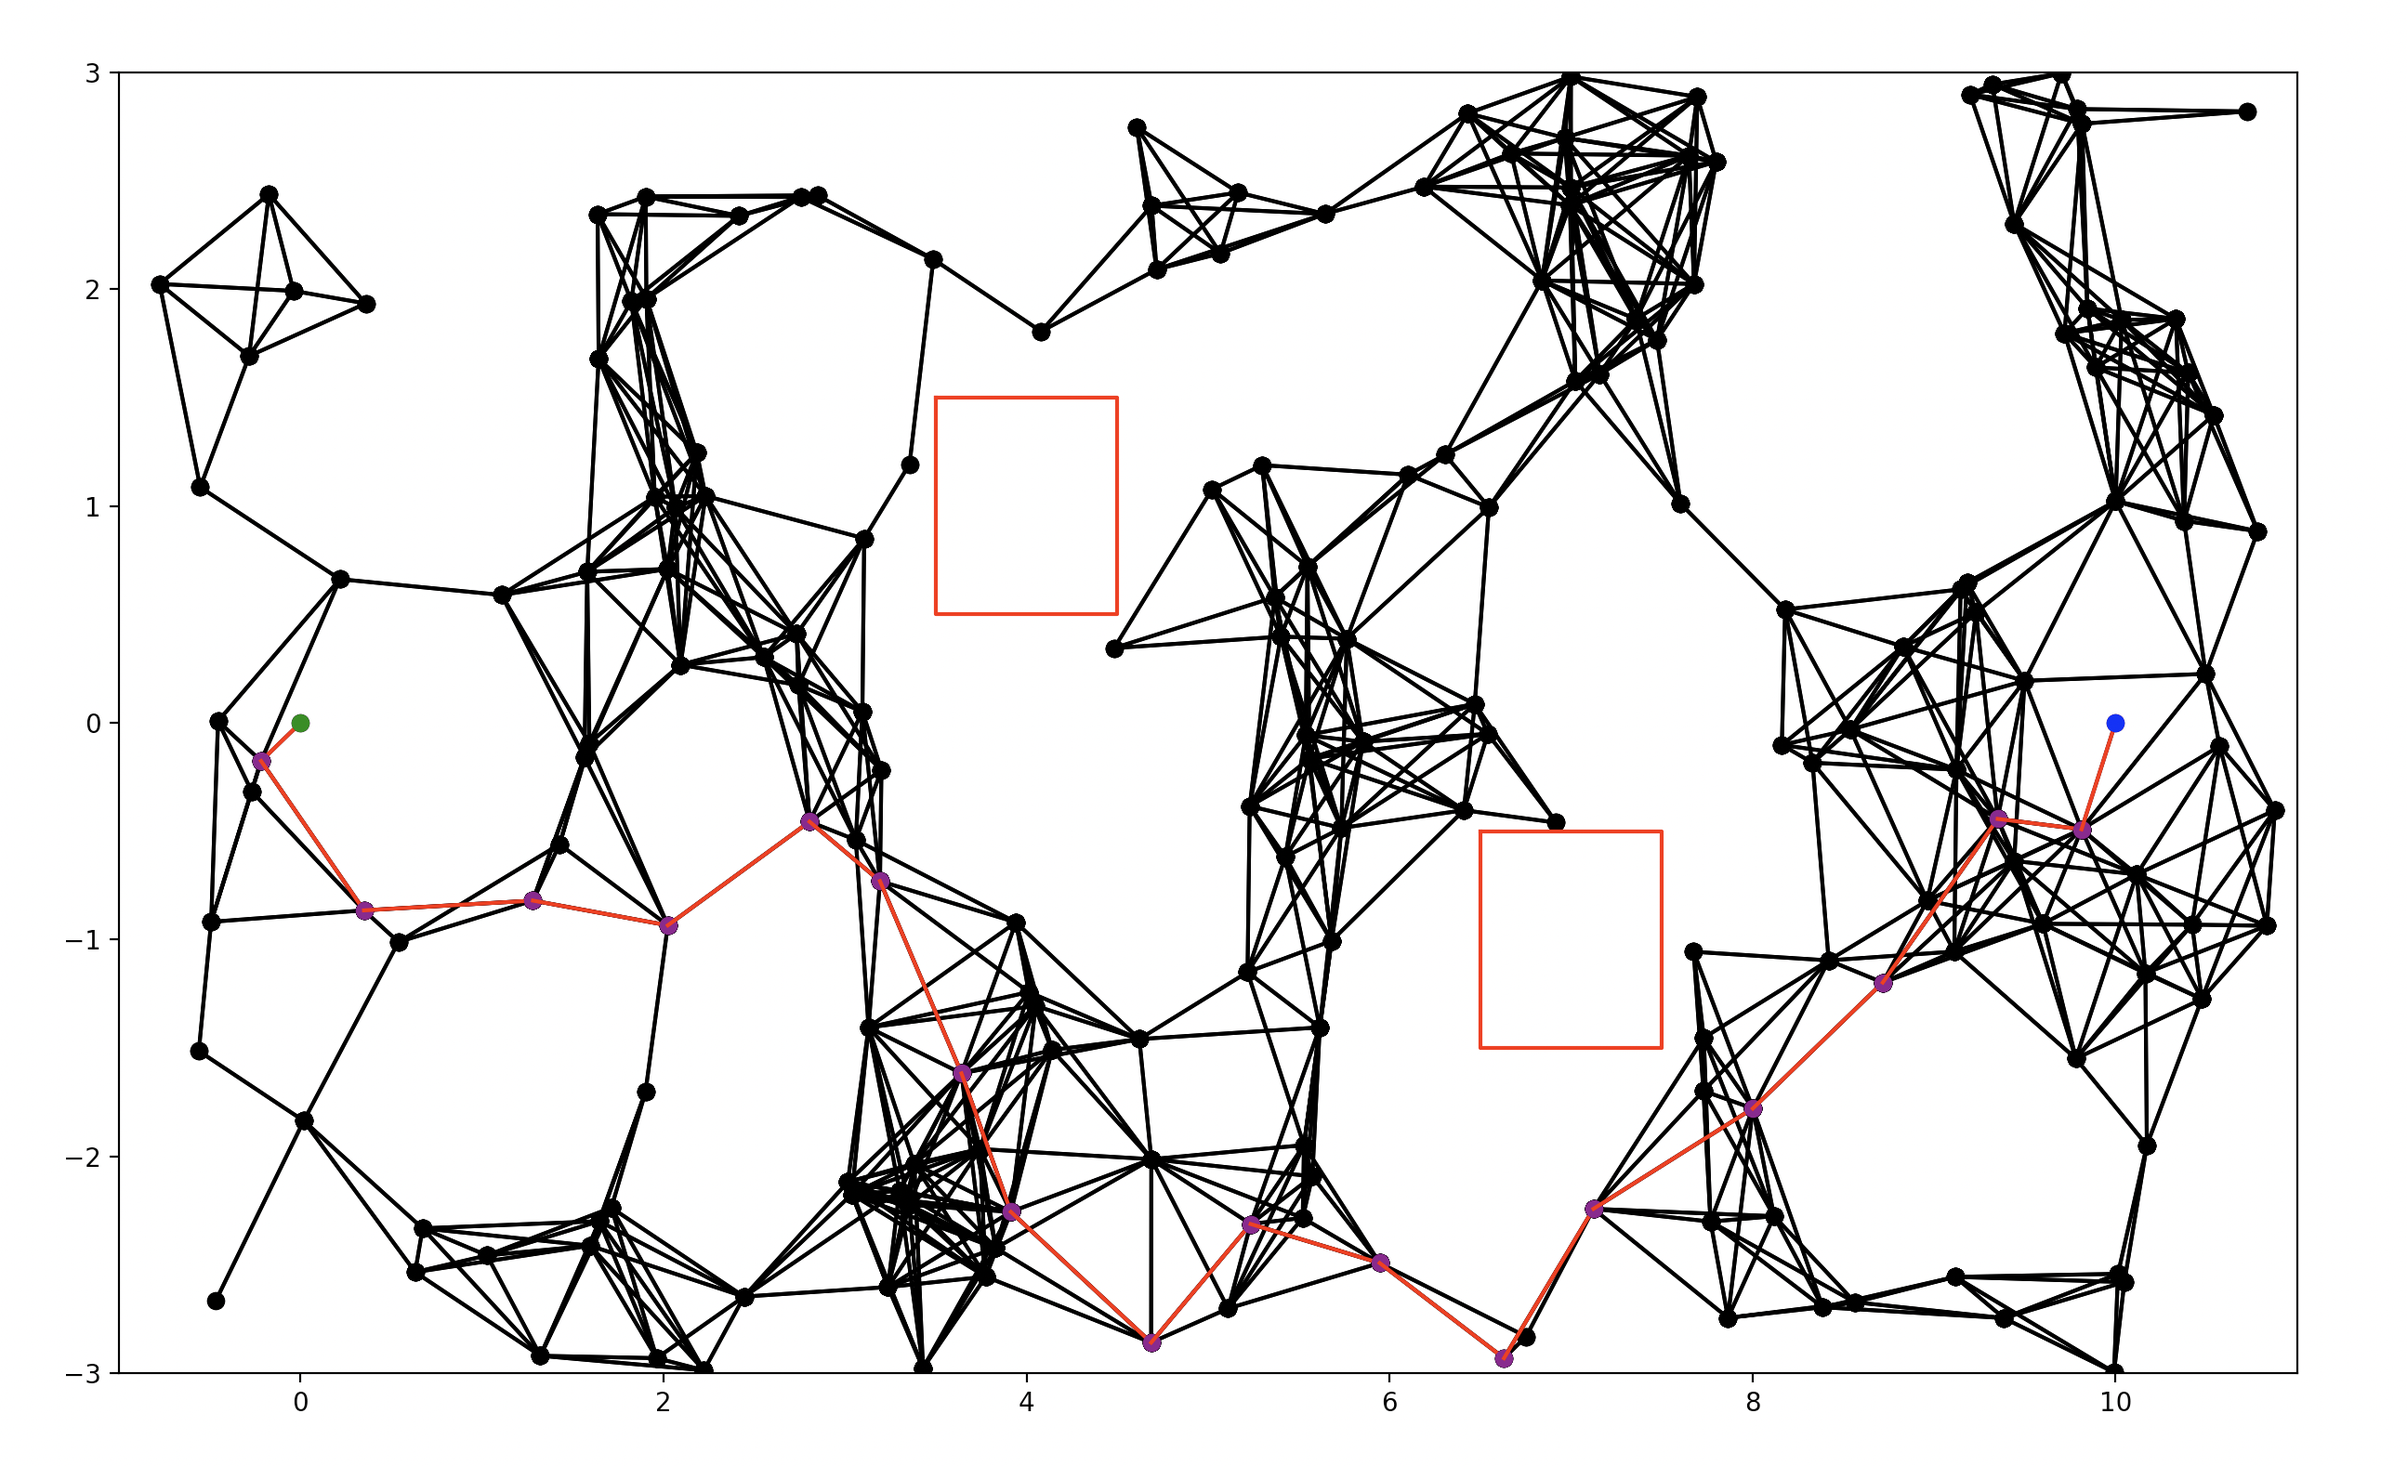
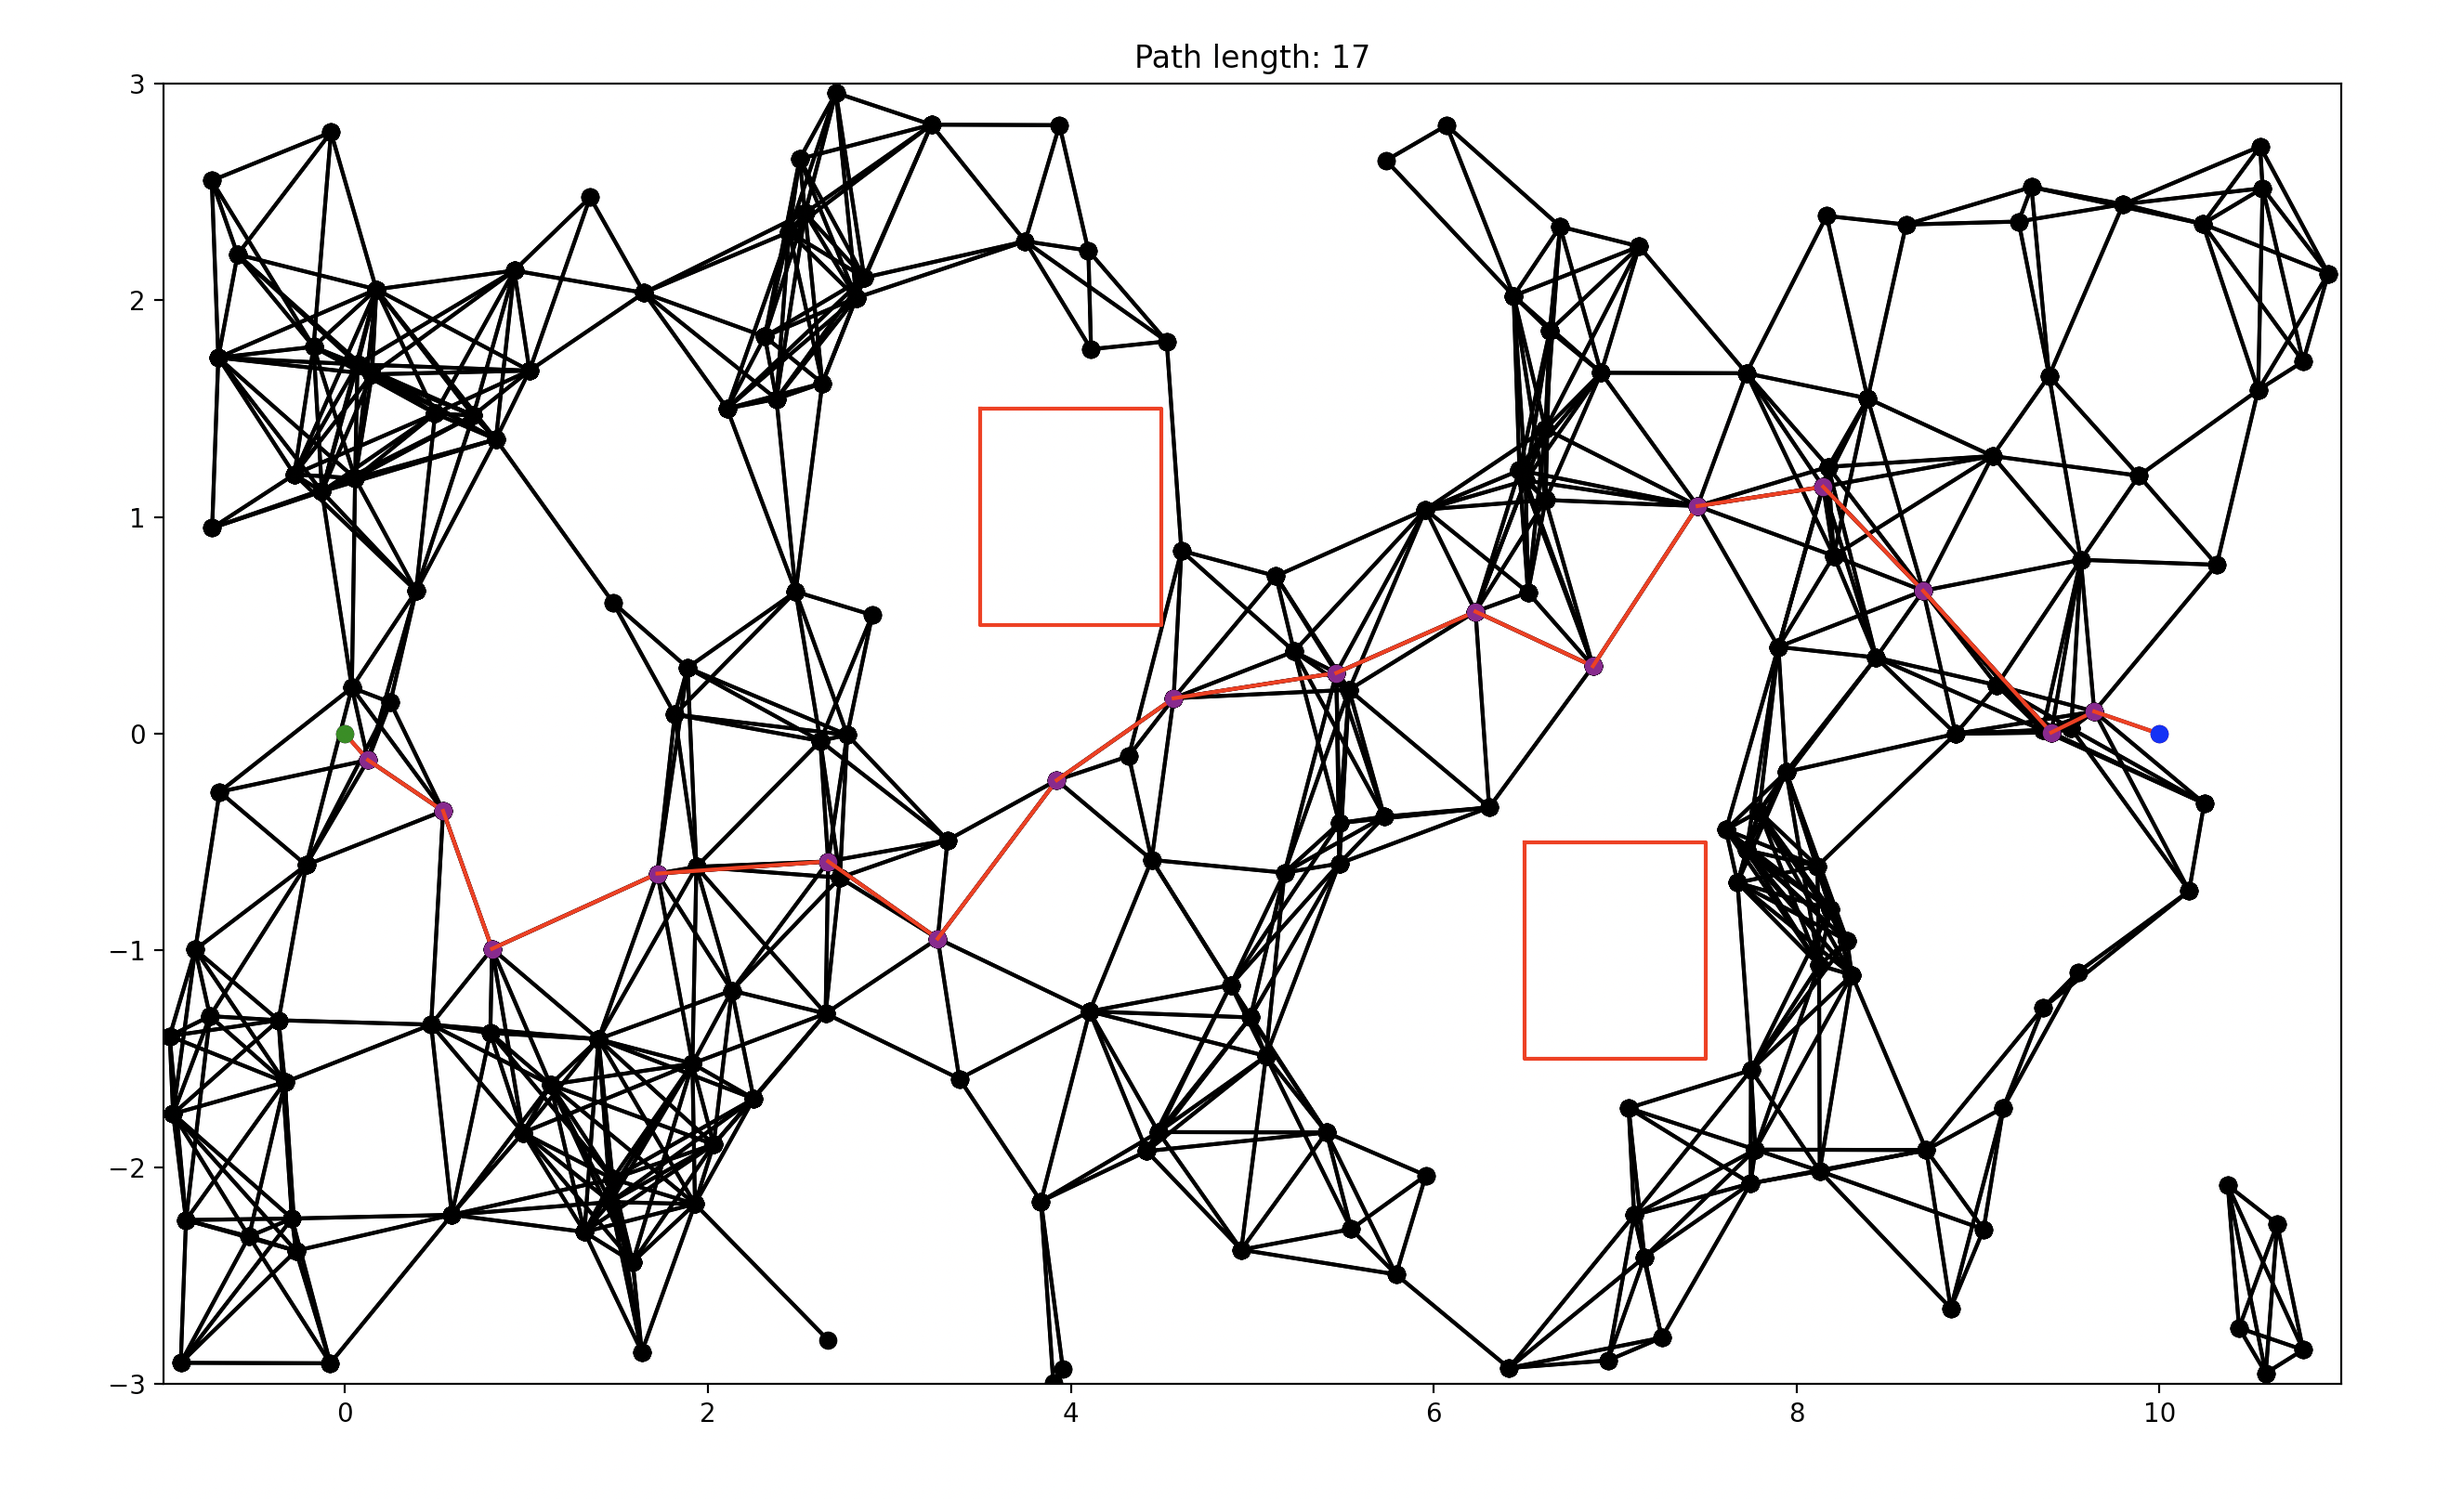
Add benchmarks

diff --git a/a_star.py b/a_star.py
@@ -1,3 +1,5 @@
+import time
+
 def find_edge(node_a, node_b):
     for edge in node_a.edges:
         if edge.node_b == node_b:
@@ -12,7 +14,7 @@ def distance_traveled(node, graph):
         if not graph.weight:
             weight = 1
         else:
-            weight = graph.weight[node]
+            weight = graph.weight[edge]
 
         distance_traveled += weight
         node = node.parent
@@ -50,25 +52,34 @@ def update_priority_queue(priority_queue, to_be_removed, adj_nodes, graph):
             adj_node.parent = to_be_removed
             priority_queue.append(adj_node)
 
+def get_path(goal):
+    path = [goal]
+    node = path[0]
+    while node.parent:
+        path.append(node.parent)
+        node = node.parent
+    path.reverse()
+    return path
 
 def a_star(graph, start_node, final_node, heuristic=None):
+    start = time.time()
+
     priority_queue = [start_node]
     to_be_removed = start_node
 
     iterations = 0
-    while to_be_removed != final_node:
+    while to_be_removed != final_node and len(priority_queue) != 0:
         to_be_removed = priority_queue[0]
         to_be_removed.seen = True
         adj_nodes = to_be_removed.adjacent_nodes
-
         update_priority_queue(priority_queue, to_be_removed, adj_nodes, graph)
-
         priority_queue.remove(to_be_removed)
         priority_queue.sort(
             key=lambda node: sort_priority_q(node, heuristic, graph))
-
         iterations += 1
+    
+    end = time.time()
+    computation_time = end - start
+    found_solution = final_node.parent is not None
+    return get_path(final_node), iterations, computation_time, found_solution
 
-    # return
-    # print_path(final_node)
-    # print("iterations count: ", iterations)

diff --git a/benchmark.py b/benchmark.py
@@ -1,0 +1,53 @@
+import matplotlib.pyplot as plt
+
+from main import get_input_a
+from prm import PRM
+
+def benchmark():
+    _, _, start, goal, x_range, y_range, obstacles = get_input_a() # to override n and r further
+    n_r_list = [(200, 0.5), (200, 1), (200, 1.5), (200, 2), (500, 0.5), (500, 1), (500, 1.5), (500, 2)]
+    
+    solutions = {}
+    for n_r in n_r_list:
+        solutions[n_r] = {
+            False: 0,
+            True: 0,
+    }
+    path_lengths = []
+    computation_times = []
+    
+    for n_r in n_r_list:
+        n, r = n_r[0], n_r[1]
+        prm = PRM(n, r, start, goal, x_range, y_range, obstacles)
+        path, _, computation_time, _, _, _, found_solution = prm.path_planning()
+
+        path_lengths.append(len(path) - 1)
+        computation_times.append(computation_time)
+        solutions[n_r][found_solution] += 1
+    
+    plt.boxplot(path_lengths)
+    plt.title("path lengths")
+    plt.savefig("plots/path_lengths_benchmark.png")
+    plt.clf()
+    plt.cla()
+    plt.close()
+    # plt.show()
+
+    plt.boxplot(computation_times)
+    plt.title("computation times")
+    # plt.show()
+    plt.savefig("plots/computation_times_benchmark.png")
+    plt.clf()
+    plt.cla()
+    plt.close()
+
+    for n_r in n_r_list:
+        plt.bar(solutions[n_r][True], solutions[n_r][False])
+        plt.title(f'n={n_r[0]}, r={n_r[1]}')
+    plt.savefig("plots/solutions_benchmark.png")
+    # plt.show()
+
+
+
+if __name__ == "__main__":
+    benchmark()

diff --git a/prm.py b/prm.py
@@ -1,5 +1,4 @@
 from cmath import inf
-from tracemalloc import start
 from shapely.geometry import LineString, Point
 
 import random
@@ -88,12 +87,21 @@ class PRM:
         nodes.append(goal_node)
 
         graph = Graph(nodes, edges)
-
         return graph, start_node, goal_node
+
+    def print_details(self):
+        print("path is: ", end='')
+        for node in self.path:
+            print(node.point, end=", ")
+        print()
+        print(f"path length: {len(self.path) - 1}")
+        print(f"computation time is: {self.computation_time}")
+
+    def draw_map(self):
+        draw_map(self.graph, self.start_node, self.goal_node, self.x_range, self.y_range, self.obstacles, self.path)
 
     def path_planning(self):
         xy_samples = self.sample()
-        graph, start_node, goal_node = self.form_graph(xy_samples)
-        a_star(graph, start_node, goal_node)
-        draw_map(graph, start_node, goal_node,
-                 self.x_range, self.y_range, self.obstacles)
+        self.graph, self.start_node, self.goal_node = self.form_graph(xy_samples)
+        self.path, self.iterations, self.computation_time, self.found_solution = a_star(self.graph, self.start_node, self.goal_node)
+        return self.path, self.iterations, self.computation_time, self.graph, self.start_node, self.goal_node, self.found_solution

diff --git a/draw.py b/draw.py
@@ -1,6 +1,6 @@
 import matplotlib.pyplot as plt
 
-def draw_map(graph, start, goal, x_range, y_range, obstacles):
+def draw_map(graph, start, goal, x_range, y_range, obstacles, path):
     plt.xlim(x_range[0], x_range[1])
     plt.ylim(y_range[0], y_range[1])
 
@@ -13,13 +13,7 @@ def draw_map(graph, start, goal, x_range, y_range, obstacles):
         x, y = obstacle.exterior.xy
         plt.plot(x, y, color='red')
 
-
-    path = [goal]
-    node = path[0]
-    while node.parent:
-        path.append(node.parent)
-        node = node.parent
-    path.reverse()
+    plt.title(f"Path length: {len(path) - 1}")
 
     # draw path
     i = 0
@@ -37,5 +31,6 @@ def draw_map(graph, start, goal, x_range, y_range, obstacles):
     # draw start and goal
     plt.plot([start.point[0]], [start.point[1]], marker = 'o', color="green")
     plt.plot([goal.point[0]], [goal.point[1]], marker = 'o', color="blue")
-
+    
+    # plt.savefig("plots/plot.png")
     plt.show()

diff --git a/main.py b/main.py
@@ -17,5 +17,5 @@ if __name__ == "__main__":
     n, r, start, goal, x_range, y_range, obstacles = get_input_a()
     prm = PRM(n, r, start, goal, x_range, y_range, obstacles)
     prm.path_planning()
-    
-    pass
+    prm.draw_map()
+    # prm.print_details()
